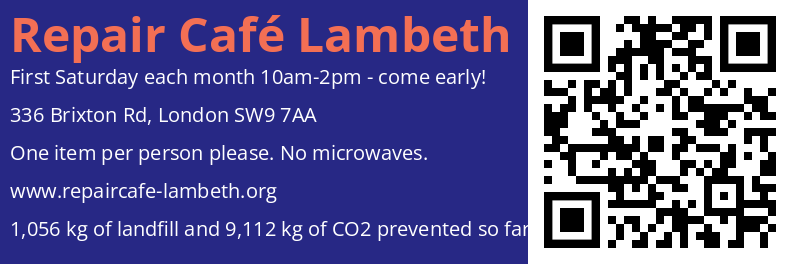
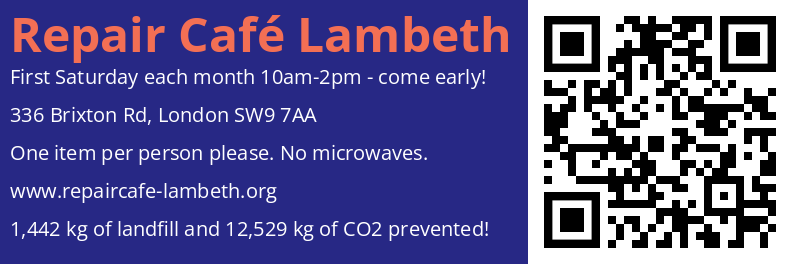
Updates for latest stats

Changed region(s): [[0.2727, 0.8182, 0.6667, 0.9091], [0.0303, 0.8182, 0.0909, 0.9091]]

diff --git a/891.js b/891.js
@@ -7,29 +7,29 @@ response={
         "phone": "0208 05 07 098",
         "description": "<p>We are enthusiasts happy to work with local volunteers who have practical skills and expertise in so many different fields. We focus not only on mending things, but also restoring confidence, sharing useful skills and promoting communication, cooperation and community spirit! </p>",
         "stats": {
-            "co2_powered": 7346.682357814999,
-            "co2_unpowered": 2377.6659559135,
-            "co2_total": 9724.3483137285,
-            "waste_powered": 876.4800000000001,
-            "waste_unpowered": 262.69,
-            "waste_total": 1139.1699999999998,
-            "fixed_devices": 467,
-            "fixed_powered": 284,
-            "fixed_unpowered": 183,
-            "repairable_devices": 294,
-            "dead_devices": 78,
-            "unknown_repair_status": 1,
-            "devices_powered": 621,
-            "devices_unpowered": 219,
-            "no_weight_powered": 12,
-            "no_weight_unpowered": 12,
-            "participants": 3311,
-            "volunteers": 569,
-            "hours_volunteered": 1878,
+            "co2_powered": 9589.245753980002,
+            "co2_unpowered": 2939.1213235610003,
+            "co2_total": 12528.367077541003,
+            "waste_powered": 1141.3300000000002,
+            "waste_unpowered": 300.06000000000006,
+            "waste_total": 1441.3900000000003,
+            "fixed_devices": 610,
+            "fixed_powered": 365,
+            "fixed_unpowered": 245,
+            "repairable_devices": 368,
+            "dead_devices": 110,
+            "unknown_repair_status": 2,
+            "devices_powered": 794,
+            "devices_unpowered": 296,
+            "no_weight_powered": 19,
+            "no_weight_unpowered": 22,
+            "participants": 4505,
+            "volunteers": 767,
+            "hours_volunteered": 2517,
             "invited": 0,
-            "events": 19
+            "events": 24
         },
-        "updated_at": "2024-12-07T16:41:20+00:00",
+        "updated_at": "2025-05-05T12:53:02+00:00",
         "location": {
             "location": "336 Brixton Rd, London SW9 7AA, UK",
             "area": "London",
@@ -71,6 +71,14 @@ response={
         "email": null,
         "archived_at": null,
         "hosts": 1,
-        "restarters": 45
+        "restarters": 50,
+        "next_event": {
+            "id": 15687,
+            "start": "2025-06-07T09:00:00+00:00",
+            "end": "2025-06-07T12:00:00+00:00",
+            "timezone": "Europe/London",
+            "title": "We Are 336",
+            "summary": true
+        }
     }
 }

diff --git a/891.py b/891.py
@@ -2,12 +2,59 @@
 
 import requests
 import json
+import polars as pl
+import funcs
 
-def fetch_text(url):
+# https://github.com/TheRestartProject/restarters.net/blob/develop/routes/api.php
+
+def fetch_group():
+    url = "https://restarters.net/api/v2/groups/891"
     r = requests.get(url)
     if r.status_code == 200:
         data = json.loads(r.content)
         json.dump(data, open('891.json', 'w'), indent=4, ensure_ascii=False)
         open('891.js', 'w').write("response=" + json.dumps(data, indent=4, ensure_ascii=False))
 
-fetch_text('https://restarters.net/api/v2/groups/891')
+
+def fetch_events():
+    url = "https://restarters.net/api/v2/groups/891/events"
+    r = requests.get(url)
+    if r.status_code == 200:
+        data = json.loads(r.content)
+        json.dump(data, open('out/891_events.json', 'w'), indent=4, ensure_ascii=False)
+    return data
+
+def read_events():
+
+    schema = {"id" : pl.Int64, "start" : pl.String, "end" : pl.String}
+    df = pl.DataFrame(schema=schema)
+    data = json.load(open('out/891_events.json', 'r'))
+    for i in range(0,len(data["data"])):
+        foo = data["data"][i]
+        tmp = pl.DataFrame(data={"id" : foo["id"], "start" : foo["start"], "end" : foo["end"]}, schema=schema)
+        df = pl.concat([df, tmp])
+    df.write_csv("out/891_events.csv")
+    return df
+
+
+def fetch_event(event_id):
+    url = f"https://restarters.net/api/v2/events/{event_id}"
+    r = requests.get(url)
+    if r.status_code == 200:
+        data = json.loads(r.content)
+        json.dump(data, open(f"out/891_event_{event_id}.json", 'w'), indent=4, ensure_ascii=False)
+
+
+if __name__ == "__main__":
+
+    logger = funcs.init_logger()
+
+    fetch_group()
+
+    # events = fetch_events()
+
+    # df_evts = read_events()
+
+    # for evt in df_evts.iter_rows(named=True):
+    #     id = evt["id"]
+    #     fetch_event(id)

diff --git a/image.py b/image.py
@@ -1,21 +1,9 @@
 #!/usr/bin/ python3
 
-import os
 import json
-import logging
 import math
 from PIL import Image, ImageDraw, ImageFont
-
-
-def init_logger():
-    filename, file_ext = os.path.splitext(os.path.basename(__file__))
-    path = filename + ".log"
-    logger = logging.getLogger()
-    logger.setLevel(logging.DEBUG)
-    fh = logging.FileHandler(path, mode="w")
-    fh.setLevel(logging.DEBUG)
-    logger.addHandler(fh)
-    return logger
+import funcs
 
 
 def compile_lines(data):
@@ -26,7 +14,7 @@ def compile_lines(data):
     lines.append("One item per person please. No microwaves.")
     lines.append("www.repaircafe-lambeth.org")
     lines.append(
-        "{:,} kg of landfill and {:,} kg of CO2 prevented so far!".format(
+        "{:,} kg of landfill and {:,} kg of CO2 prevented!".format(
             math.ceil(data["stats"]["waste_total"]),
             math.ceil(data["stats"]["co2_total"]),
         )
@@ -147,7 +135,7 @@ def merge(im1, im2, where="r"):
 
 if __name__ == "__main__":
 
-    logger = init_logger()
+    logger = funcs.init_logger()
 
     data = json.load(open("891.json", "r"))["data"]
     lines = compile_lines(data)

diff --git a/funcs.py b/funcs.py
@@ -1,0 +1,14 @@
+
+import os
+import logging
+
+
+def init_logger():
+    filename, file_ext = os.path.splitext(os.path.basename(__file__))
+    path = filename + ".log"
+    logger = logging.getLogger()
+    logger.setLevel(logging.DEBUG)
+    fh = logging.FileHandler(path, mode="w")
+    fh.setLevel(logging.DEBUG)
+    logger.addHandler(fh)
+    return logger
